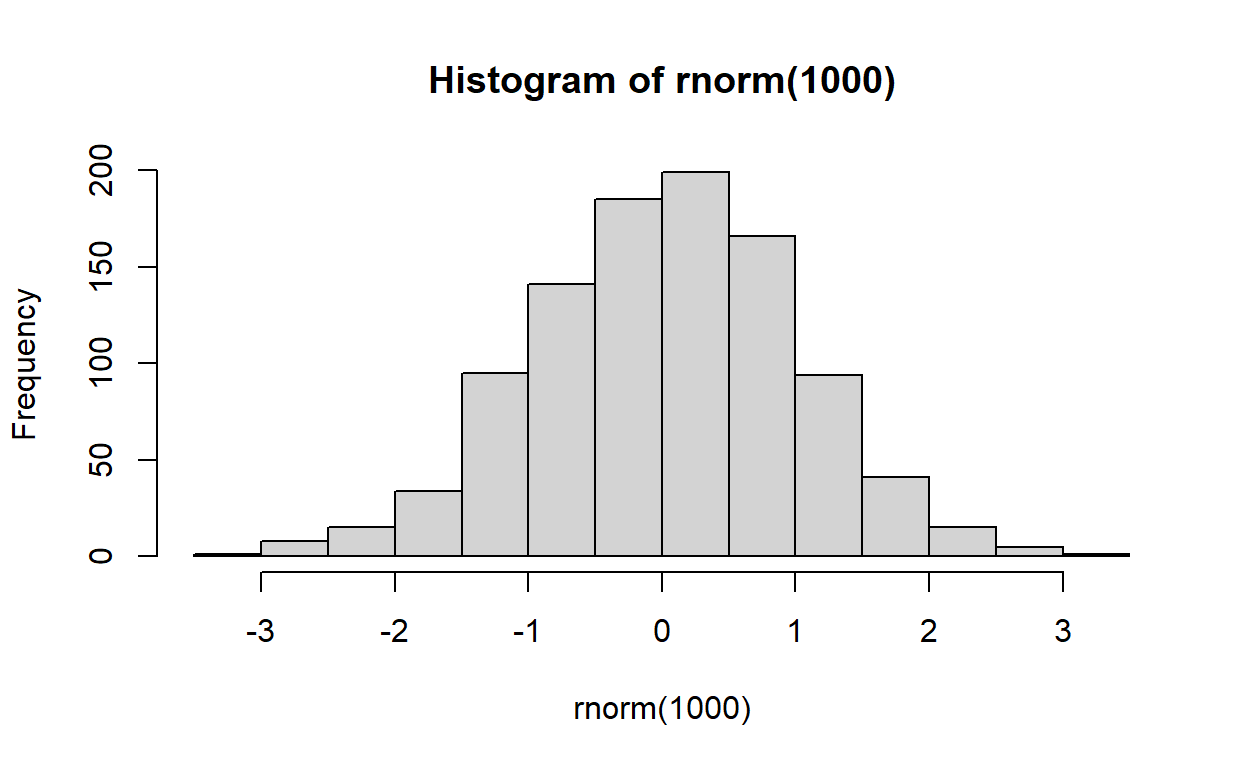
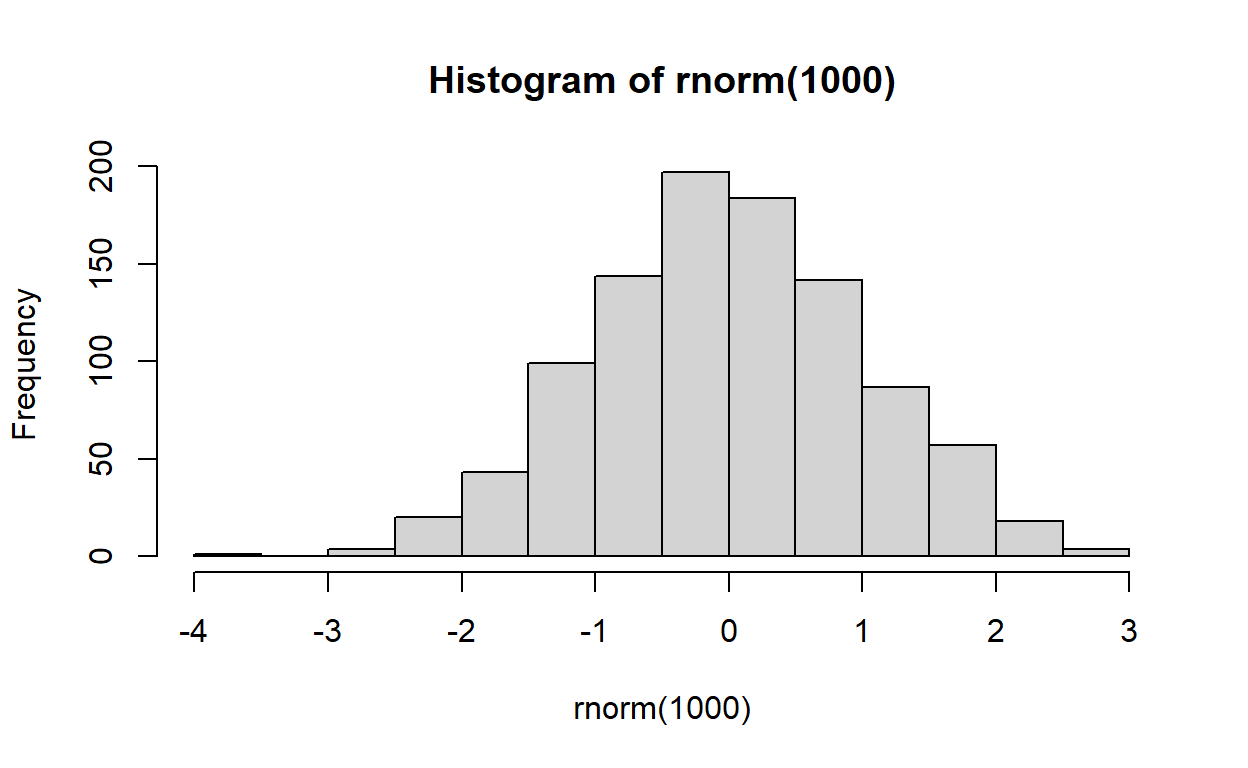
added hiatogram

diff --git a/docs/teaching.html b/docs/teaching.html
@@ -458,8 +458,8 @@ code span.wa { color: #5e5e5e; font-style: italic; } /* Warning */
   </style>
 
   <script src="site_libs/jquery-3.6.0/jquery-3.6.0.min.js"></script>
-  <link href="site_libs/font-awesome-5.1.0/css/all.css" rel="stylesheet"/>
-  <link href="site_libs/font-awesome-5.1.0/css/v4-shims.css" rel="stylesheet"/>
+  <link href="site_libs/font-awesome-6.4.2/css/all.min.css" rel="stylesheet"/>
+  <link href="site_libs/font-awesome-6.4.2/css/v4-shims.min.css" rel="stylesheet"/>
   <script src="site_libs/headroom-0.9.4/headroom.min.js"></script>
   <script src="site_libs/autocomplete-0.37.1/autocomplete.min.js"></script>
   <script src="site_libs/fuse-6.4.1/fuse.min.js"></script>
@@ -2074,7 +2074,7 @@ code span.wa { color: #5e5e5e; font-style: italic; } /* Warning */
   </script>
 
   <!--/radix_placeholder_distill-->
-  <script src="site_libs/header-attrs-2.20/header-attrs.js"></script>
+  <script src="site_libs/header-attrs-2.24/header-attrs.js"></script>
   <script src="site_libs/popper-2.6.0/popper.min.js"></script>
   <link href="site_libs/tippy-6.2.7/tippy.css" rel="stylesheet" />
   <link href="site_libs/tippy-6.2.7/tippy-light-border.css" rel="stylesheet" />
@@ -2149,11 +2149,18 @@ code span.wa { color: #5e5e5e; font-style: italic; } /* Warning */
 <span><span class='kw'><a href='https://rdrr.io/r/base/library.html'>library</a></span><span class='op'>(</span><span class='va'><a href='https://yihui.org/knitr/'>knitr</a></span><span class='op'>)</span></span>
 <span><span class='fu'><a href='https://rdrr.io/pkg/knitr/man/include_graphics.html'>include_graphics</a></span><span class='op'>(</span><span class='fu'>here</span><span class='fu'>::</span><span class='fu'><a href='https://here.r-lib.org//reference/here.html'>here</a></span><span class='op'>(</span><span class='st'>"Shiny_Art_image1.png"</span><span class='op'>)</span><span class='op'>)</span></span></code></pre>
 </div>
-<p><img src="Shiny_art_image1.png" width="413" /></p>
+<p><img src="Shiny_Art_image1.png" width="413" /></p>
 </div>
 <h1 id="shiny-app">SHINY APP</h1>
 <iframe src="https://abbyflynt.shinyapps.io/USCOTS2023/" class="l-screen-inset shaded" height="1000px">
 </iframe>
+<h1 id="histogram">Histogram</h1>
+<div class="layout-chunk" data-layout="l-body">
+<div class="sourceCode">
+<pre class="sourceCode r"><code class="sourceCode r"><span><span class='fu'><a href='https://rdrr.io/r/graphics/hist.html'>hist</a></span><span class='op'>(</span><span class='fu'><a href='https://rdrr.io/r/stats/Normal.html'>rnorm</a></span><span class='op'>(</span><span class='fl'>1000</span><span class='op'>)</span><span class='op'>)</span></span></code></pre>
+</div>
+<p><img src="teaching_files/figure-html5/unnamed-chunk-3-1.png" width="624" /></p>
+</div>
 <div class="sourceCode" id="cb1"><pre class="sourceCode r distill-force-highlighting-css"><code class="sourceCode r"></code></pre></div>
 <!--radix_placeholder_article_footer-->
 <!--/radix_placeholder_article_footer-->

diff --git a/docs/site_libs/header-attrs-2.24/header-attrs.js b/docs/site_libs/header-attrs-2.24/header-attrs.js
@@ -1,0 +1,12 @@
+// Pandoc 2.9 adds attributes on both header and div. We remove the former (to
+// be compatible with the behavior of Pandoc < 2.8).
+document.addEventListener('DOMContentLoaded', function(e) {
+  var hs = document.querySelectorAll("div.section[class*='level'] > :first-child");
+  var i, h, a;
+  for (i = 0; i < hs.length; i++) {
+    h = hs[i];
+    if (!/^h[1-6]$/i.test(h.tagName)) continue;  // it should be a header h1-h6
+    a = h.attributes;
+    while (a.length > 0) h.removeAttribute(a[0].name);
+  }
+});
